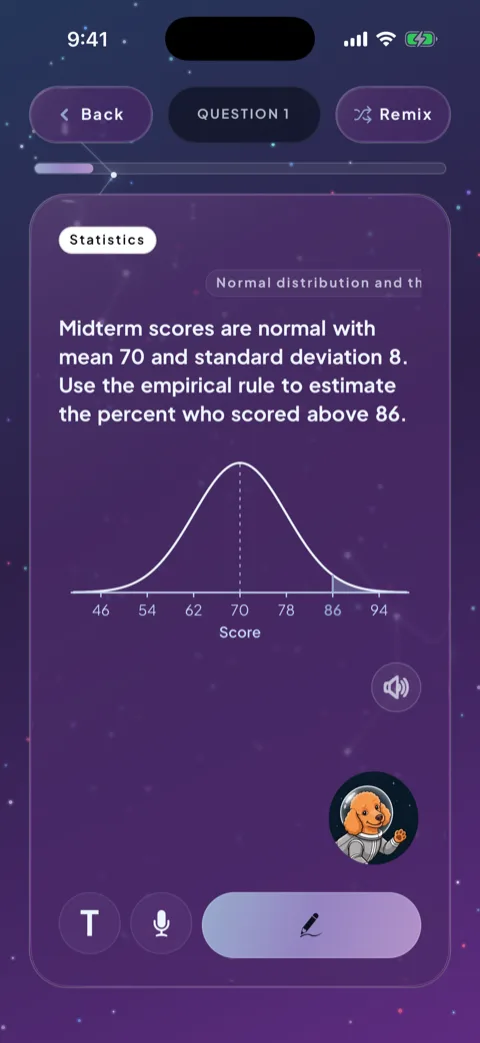
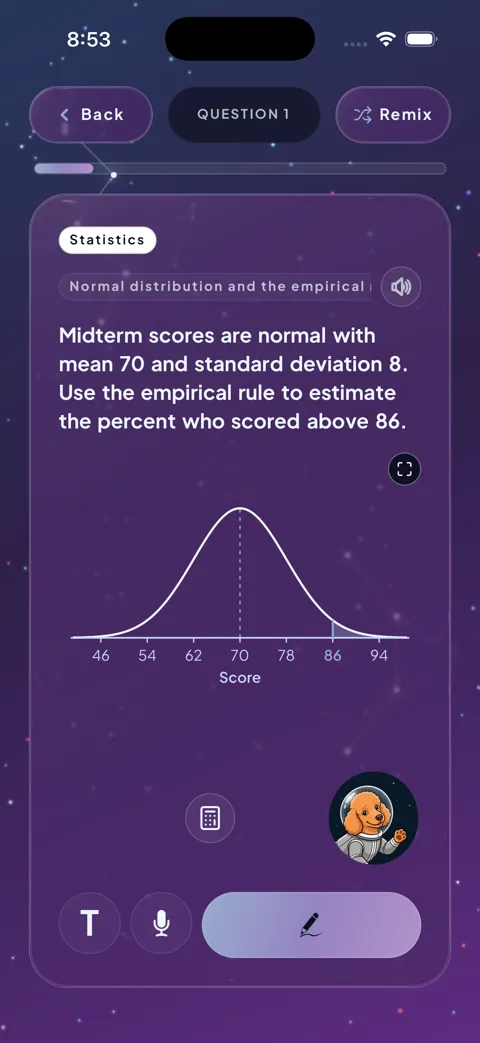
fix(lune-synth): recapture the college study hero screenshot
The old capture showed the topic tag on its own row, pushed right and
clipped. Recaptured from the current app (website-set-persona-normal-midterm,
same slate/orchid theme): the tag sits under the subject pill and the
normal curve renders. Cache-busted the three references.

diff --git a/lune-synth/for-students/college-study/index.html b/lune-synth/for-students/college-study/index.html
@@ -21,7 +21,7 @@
   <link rel="preconnect" href="https://fonts.googleapis.com" />
   <link rel="preconnect" href="https://fonts.gstatic.com" crossorigin />
   <link href="https://fonts.googleapis.com/css2?family=Plus+Jakarta+Sans:wght@400;500;600;700;800&amp;family=Roboto+Mono:wght@400;500;600;700&amp;display=swap" rel="stylesheet" />
-  <link rel="preload" href="/mobile-app-assets/screenshots/applied/question-prompts/persona-normal-midterm-mid.webp" as="image" />
+  <link rel="preload" href="/mobile-app-assets/screenshots/applied/question-prompts/persona-normal-midterm-mid.webp?v=20261031" as="image" />
   <link rel="stylesheet" href="/campaign/landing.css?v=11" />
   <link rel="stylesheet" href="/campaign/phone-chassis.css?v=1" />
   <link rel="stylesheet" href="/campaign/cta.css?v=1" />
@@ -102,8 +102,8 @@
           <div class="phone-mock__frame" data-phone-mock>
             <div class="phone-mock__screen">
               <picture>
-                <source media="(min-width: 900px)" srcset="/mobile-app-assets/screenshots/applied/question-prompts/persona-normal-midterm.webp" />
-                <img src="/mobile-app-assets/screenshots/applied/question-prompts/persona-normal-midterm-mid.webp" alt="Lune Synth question screen: midterm scores are normal with mean 70 and standard deviation 8; a normal curve shades the tail above 86" width="480" height="1043" decoding="async" />
+                <source media="(min-width: 900px)" srcset="/mobile-app-assets/screenshots/applied/question-prompts/persona-normal-midterm.webp?v=20261031" />
+                <img src="/mobile-app-assets/screenshots/applied/question-prompts/persona-normal-midterm-mid.webp?v=20261031" alt="Lune Synth question screen: midterm scores are normal with mean 70 and standard deviation 8; a normal curve shades the tail above 86" width="480" height="1043" decoding="async" />
               </picture>
             </div>
             <div class="phone-shell-buttons" aria-hidden="true">
